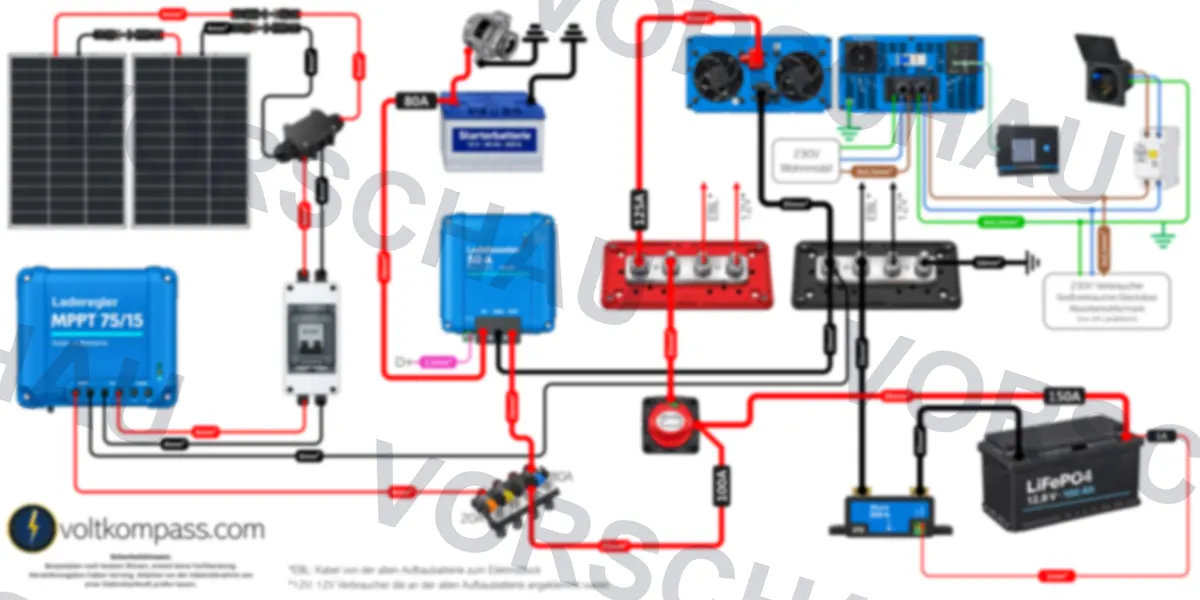
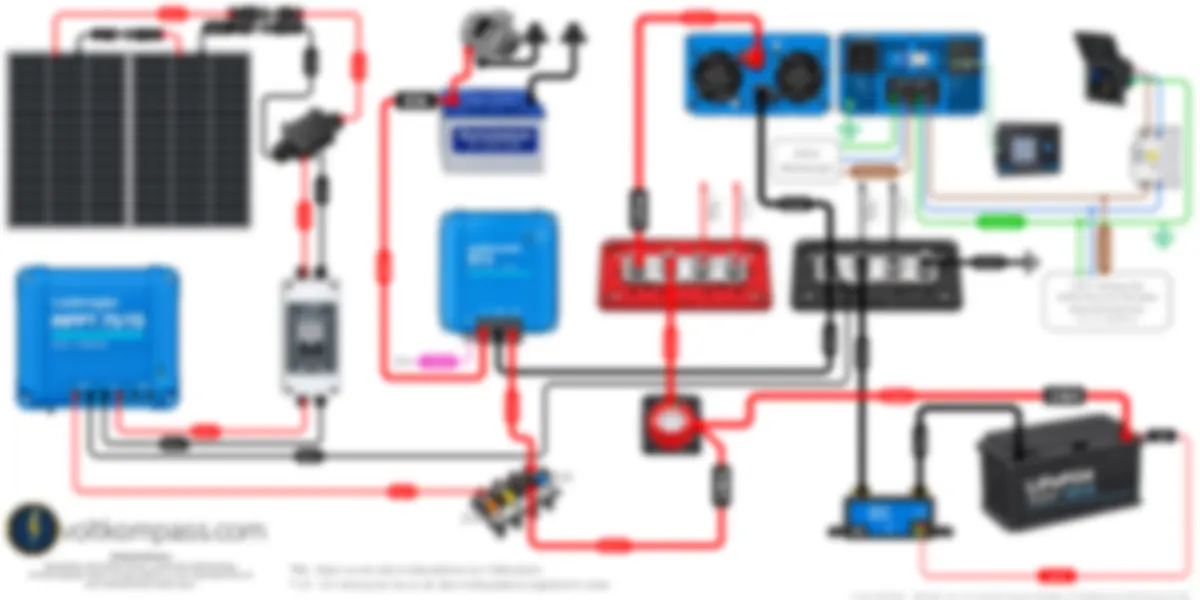
Stromlaufpläne: selbstdrehende 3D-Vorschau für alle Pläne, Vorschaubilder ohne Schriftzug

diff --git a/stromlaufplaene.html b/stromlaufplaene.html
@@ -88,18 +88,16 @@
     .slp-result figure.slp-3d{overflow:hidden;border:0;background:none;aspect-ratio:auto;margin:0 0 18px}
     .slp-stage{position:relative;aspect-ratio:2/.88;perspective:1400px;touch-action:pan-y;user-select:none}
     .slp-slide{position:absolute;left:12%;top:4%;width:76%;aspect-ratio:2/1;border-radius:12px;overflow:hidden;background:#fff;border:1px solid var(--line-2);
-      box-shadow:0 18px 40px -18px rgba(0,0,0,.8);transition:transform .6s cubic-bezier(.2,.7,.2,1),opacity .6s,filter .6s;cursor:pointer;will-change:transform}
+      box-shadow:0 18px 40px -18px rgba(0,0,0,.8);transition:transform .6s cubic-bezier(.2,.7,.2,1),opacity .6s,filter .6s;will-change:transform}
     .slp-slide img{display:block;width:100%;height:100%;object-fit:cover;pointer-events:none}
-    .slp-slide.is-on{cursor:default;box-shadow:0 26px 60px -20px rgba(0,0,0,.9),0 0 0 2px var(--gold)}
+    .slp-slide.is-on{box-shadow:0 26px 60px -20px rgba(0,0,0,.9),0 0 0 2px var(--gold)}
     .slp-3d-bar{display:flex;align-items:center;gap:12px;margin-top:6px}
     .slp-3d-bar b{font:600 .95rem/1.2 var(--font);color:#fff}
     .slp-3d-bar small{color:var(--text-2);font-size:.8rem}
-    .slp-3d-btn{flex:0 0 38px;height:38px;border-radius:50%;border:1px solid var(--line-2);background:rgba(255,255,255,.04);color:var(--gold);font-size:18px;cursor:pointer;transition:border-color .2s,background .2s}
-    .slp-3d-btn:hover{border-color:var(--gold);background:rgba(230,178,0,.1)}
     .slp-3d-bar .mitte{flex:1;text-align:center}
     .slp-dots{display:flex;justify-content:center;gap:6px;margin-top:6px}
-    .slp-dots button{width:8px;height:8px;padding:0;border-radius:99px;border:0;background:rgba(255,255,255,.2);cursor:pointer;transition:width .3s,background .3s}
-    .slp-dots button.is-on{width:22px;background:var(--gold)}
+    .slp-dots span{width:8px;height:8px;border-radius:99px;background:rgba(255,255,255,.2);transition:width .3s,background .3s}
+    .slp-dots span.is-on{width:22px;background:var(--gold)}
     @media (prefers-reduced-motion:reduce){.slp-slide{transition:none}}
     @media (max-width:900px){.slp-config{grid-template-columns:1fr}.slp-result{position:static}}
     @media (max-width:520px){.slp-buy .btn{margin-left:0;width:100%;text-align:center}}
@@ -215,8 +213,7 @@
    preis:     z. B. "19,90 €" (leer = "Preis folgt")
    ============================================================ */
 let PLAENE = [
-  {solar:100, booster:30, akku:100, inverter:0,    regler:"MPPT 75/10",  seiten:6, preis:"15 €", digistore:"https://www.checkout-ds24.com/product/770782",
-   vorschau:[[2,"Gesamtplan"],[3,"Teilplan Batterie"],[4,"Teilplan Ladebooster"],[5,"Teilplan Solar"],[6,"Materialliste"],[1,"Hinweise"]]},
+  {solar:100, booster:30, akku:100, inverter:0,    regler:"MPPT 75/10",  seiten:6, preis:"15 €", digistore:"https://www.checkout-ds24.com/product/770782"},
   {solar:100, booster:30, akku:100, inverter:1000, regler:"MPPT 75/10",  seiten:7, preis:"17 €", digistore:"https://www.checkout-ds24.com/product/770921"},
   {solar:100, booster:50, akku:100, inverter:1000, regler:"MPPT 75/10",  seiten:7, preis:"17 €", digistore:"https://www.checkout-ds24.com/product/770931"},
   {solar:200, booster:30, akku:100, inverter:0,    regler:"MPPT 75/15",  seiten:6, preis:"15 €", digistore:"https://www.checkout-ds24.com/product/770897"},
@@ -226,6 +223,13 @@ let PLAENE = [
   {solar:300, booster:30, akku:100, inverter:1000, regler:"MPPT 100/20", seiten:7, preis:"17 €", digistore:"https://www.checkout-ds24.com/product/770930"},
   {solar:300, booster:50, akku:100, inverter:1000, regler:"MPPT 100/20", seiten:7, preis:"17 €", digistore:"https://www.checkout-ds24.com/product/770933"},
 ];
+
+// Seiten im 3D-Karussell (Bild = PDF-Seite, Ordner assets/stromlaufplaene/<plan>/)
+const VORSCHAU = {
+  6: [[2,"Gesamtplan"],[3,"Teilplan Batterie"],[4,"Teilplan Ladebooster"],[5,"Teilplan Solar"],[6,"Materialliste"],[1,"Hinweise"]],
+  7: [[2,"Gesamtplan"],[3,"Teilplan Batterie"],[4,"Teilplan Ladebooster"],[5,"Teilplan Solar"],[6,"Teilplan 230 V"],[7,"Materialliste"],[1,"Hinweise"]],
+};
+PLAENE.forEach(p => p.vorschau ||= VORSCHAU[p.seiten]);
 
 const KEYS = ["solar","booster","akku","inverter"];
 const NAME = {solar:"Solarleistung", booster:"Ladebooster", akku:"Akku", inverter:"Spannungswandler"};
@@ -333,19 +337,15 @@ function karussellHtml(p) {
   return `<figure class="slp-3d" aria-roledescription="Karussell" aria-label="Vorschau aller Seiten">
     <div class="slp-stage">${p.vorschau.map(([s, name], i) =>
       `<div class="slp-slide" data-i="${i}"><img src="assets/stromlaufplaene/${slug(p)}/${s}.webp" width="1200" height="600" alt="Vorschau ${name}" ${i > 1 ? 'loading="lazy"' : ""}></div>`).join("")}</div>
-    <div class="slp-3d-bar">
-      <button type="button" class="slp-3d-btn" data-d="-1" aria-label="Vorherige Seite">‹</button>
-      <div class="mitte"><b></b><br><small></small></div>
-      <button type="button" class="slp-3d-btn" data-d="1" aria-label="Nächste Seite">›</button>
-    </div>
-    <div class="slp-dots">${p.vorschau.map((_, i) => `<button type="button" data-i="${i}" aria-label="Seite ${i + 1} von ${n}"></button>`).join("")}</div>
+    <div class="slp-3d-bar"><div class="mitte"><b></b><br><small></small></div></div>
+    <div class="slp-dots" aria-hidden="true">${p.vorschau.map(() => "<span></span>").join("")}</div>
   </figure>`;
 }
 
 let karussellTimer;
 function starteKarussell(fig, p) {
   clearInterval(karussellTimer);
-  const slides = [...fig.querySelectorAll(".slp-slide")], dots = [...fig.querySelectorAll(".slp-dots button")], n = slides.length;
+  const slides = [...fig.querySelectorAll(".slp-slide")], dots = [...fig.querySelectorAll(".slp-dots span")], n = slides.length;
   let akt = 0;
   const zeige = i => {
     akt = (i + n) % n;
@@ -363,25 +363,9 @@ function starteKarussell(fig, p) {
     fig.querySelector(".mitte b").textContent = p.vorschau[akt][1];
     fig.querySelector(".mitte small").textContent = `Seite ${akt + 1} von ${n}`;
   };
-  const auto = () => { clearInterval(karussellTimer); karussellTimer = setInterval(() => document.hidden || zeige(akt + 1), 4000); };
-  const geh = i => { zeige(i); auto(); };
-  let gewischt = false;
-  fig.addEventListener("click", e => {
-    if (gewischt) { gewischt = false; return; }
-    const b = e.target.closest("[data-d]"); if (b) return geh(akt + +b.dataset.d);
-    const d = e.target.closest(".slp-dots button, .slp-slide"); if (d) geh(+d.dataset.i);
-  });
-  let x0 = null;
-  const stage = fig.querySelector(".slp-stage");
-  stage.addEventListener("pointerdown", e => { x0 = e.clientX; gewischt = false; });
-  stage.addEventListener("pointerup", e => {
-    if (x0 !== null && Math.abs(e.clientX - x0) > 40) { gewischt = true; geh(akt + (e.clientX < x0 ? 1 : -1)); }
-    x0 = null;
-  });
-  fig.addEventListener("mouseenter", () => clearInterval(karussellTimer));
-  fig.addEventListener("mouseleave", auto);
+  // dreht sich von selbst weiter, ohne Bedienung
   zeige(0);
-  if (!matchMedia("(prefers-reduced-motion: reduce)").matches) auto();
+  karussellTimer = setInterval(() => document.hidden || zeige(akt + 1), 3500);
 }
 
 // Übersicht aller Pläne
